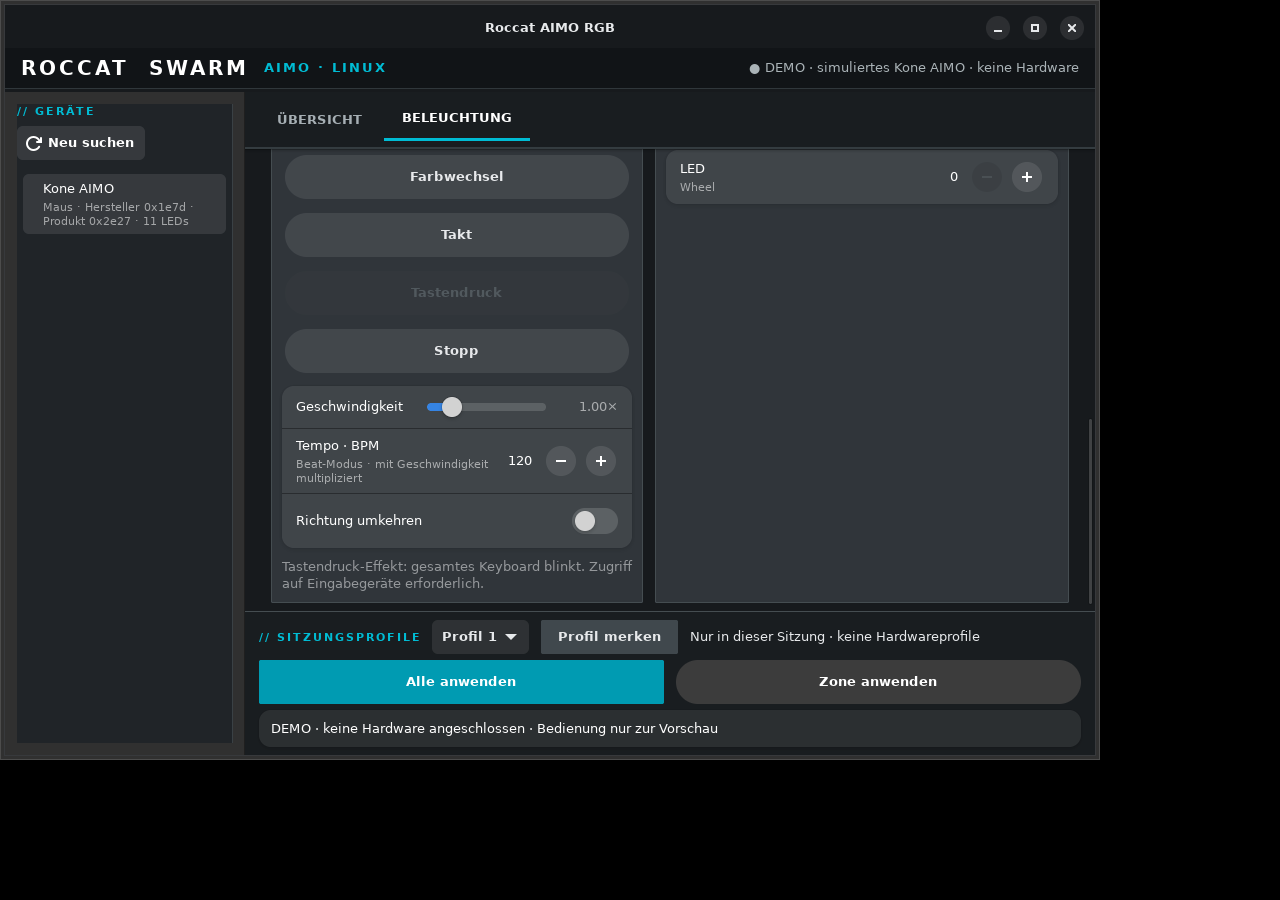
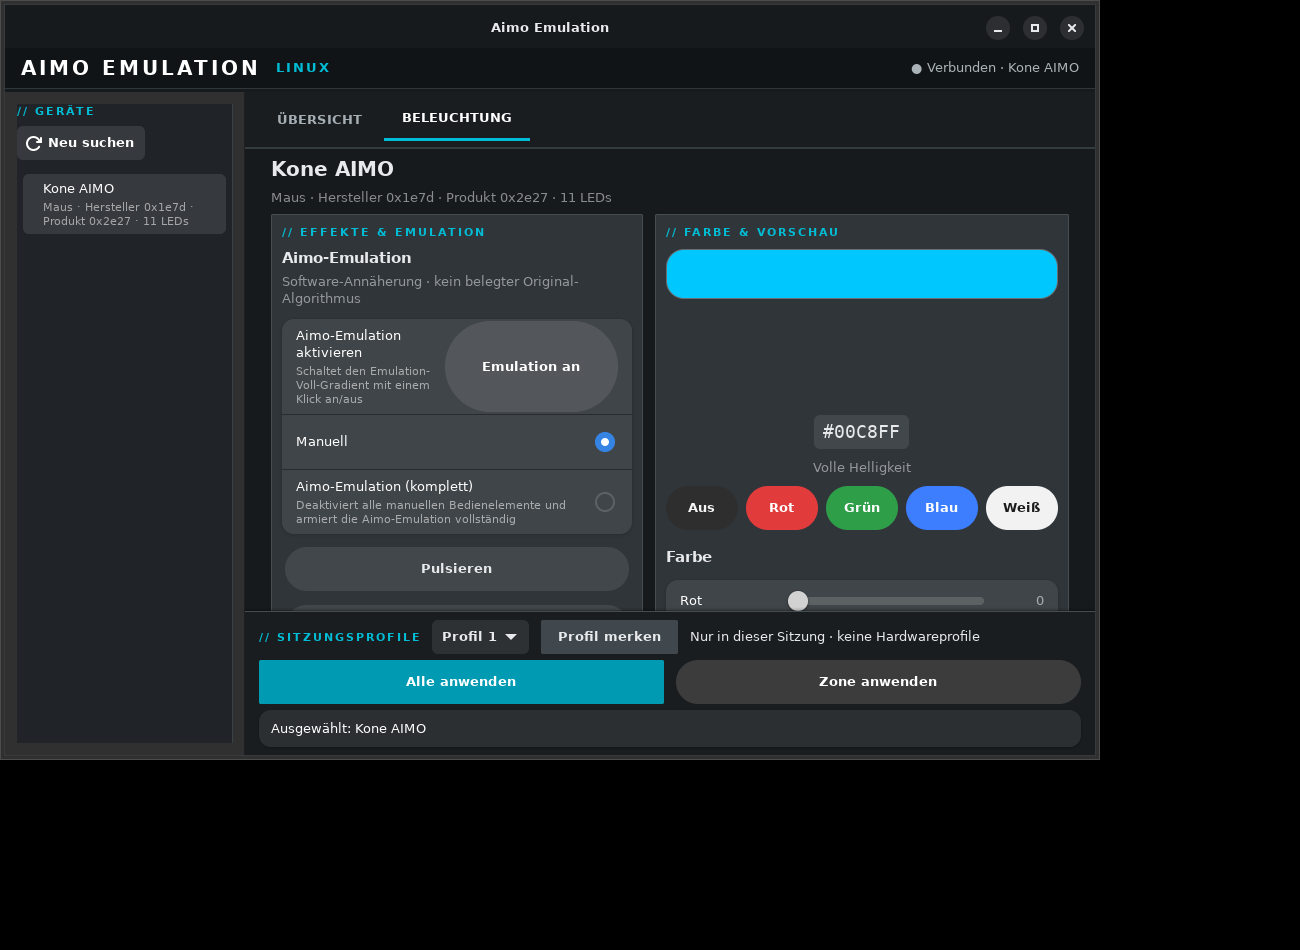
fix: strip SWARM/AIMO branding from visible UI strings (t_11f8949a)

Changed region(s): [[0.0, 0.0, 0.875, 0.8711], [0.375, 0.0, 0.4688, 0.0622]]

diff --git a/src/roccat_aimo_gui.py b/src/roccat_aimo_gui.py
@@ -188,7 +188,7 @@ class RoccatDeviceRow(Adw.ActionRow):
 
 class RoccatGui(Adw.ApplicationWindow):
     def __init__(self, app):
-        super().__init__(application=app, title="Roccat AIMO RGB")
+        super().__init__(application=app, title="Aimo Emulation")
         self.set_default_size(1100, 760)
         self.add_css_class("swarm-window")
         self._session_profiles: list[tuple[int, int, int, int, float, int, bool] | None] = [None] * 5
@@ -223,10 +223,10 @@ class RoccatGui(Adw.ApplicationWindow):
         window_toolbar.add_top_bar(self.header_bar)
         brand = Gtk.Box(spacing=18)
         brand.add_css_class("swarm-brand")
-        logo = Gtk.Label(label="ROCCAT  SWARM")
+        logo = Gtk.Label(label="AIMO EMULATION")
         logo.add_css_class("swarm-logo")
         brand.append(logo)
-        edition = Gtk.Label(label="AIMO · LINUX")
+        edition = Gtk.Label(label="LINUX")
         edition.add_css_class("swarm-accent")
         brand.append(edition)
         self.connection_label = Gtk.Label(label="● Offline · kein Gerät angeschlossen")
@@ -377,14 +377,14 @@ class RoccatGui(Adw.ApplicationWindow):
             aimo_mode.AIMO_SIGNATURE if aimo_mode is not None
             else ((255, 0, 0), (255, 80, 0), (230, 140, 0))
         )
-        aimo_group = Adw.PreferencesGroup(title="AIMO-Modus")
+        aimo_group = Adw.PreferencesGroup(title="Aimo-Emulation")
         aimo_group.set_description("Software-Annäherung · kein belegter Original-Algorithmus")
         self.aimo_btn = Gtk.Button()
         self.aimo_btn.add_css_class("pill")
         self.aimo_btn.set_hexpand(True)
-        aimo_btn_row = Adw.ActionRow(title="AIMO-Signatur aktivieren")
+        aimo_btn_row = Adw.ActionRow(title="Aimo-Emulation aktivieren")
         aimo_btn_row.set_activatable_widget(self.aimo_btn)
-        aimo_btn_row.set_subtitle("Schaltet den AIMO-Voll-Gradient mit einem Klick an/aus")
+        aimo_btn_row.set_subtitle("Schaltet den Emulation-Voll-Gradient mit einem Klick an/aus")
         aimo_btn_row.add_suffix(self.aimo_btn)
         aimo_group.add(aimo_btn_row)
         self.manual_radio = Gtk.CheckButton()
@@ -395,9 +395,9 @@ class RoccatGui(Adw.ApplicationWindow):
         aimo_group.add(manual_row)
         self.aimo_master = Gtk.CheckButton()
         self.aimo_master.set_group(self.manual_radio)
-        master_row = Adw.ActionRow(title="AIMO-Modus (komplett)")
+        master_row = Adw.ActionRow(title="Aimo-Emulation (komplett)")
         master_row.set_subtitle(
-            "Deaktiviert alle manuellen Bedienelemente und armiert den AIMO-Modus vollständig"
+            "Deaktiviert alle manuellen Bedienelemente und armiert die Aimo-Emulation vollständig"
         )
         master_row.add_suffix(self.aimo_master)
         master_row.set_activatable_widget(self.aimo_master)
@@ -405,7 +405,7 @@ class RoccatGui(Adw.ApplicationWindow):
         aimo_group.add(master_row)
         content.append(aimo_group)
 
-        self._aimo_btn_label = "AIMO an"
+        self._aimo_btn_label = "Emulation an"
         self.aimo_btn.connect("clicked", lambda _: self.toggle_aimo())
         self._rebuild_aimo_button()
 
@@ -474,7 +474,7 @@ class RoccatGui(Adw.ApplicationWindow):
         right = Gtk.Box(orientation=Gtk.Orientation.VERTICAL, spacing=10)
         right.add_css_class("swarm-panel")
         right.set_hexpand(True)
-        for heading, panel in (("// EFFEKTE & AIMO", left), ("// FARBE & VORSCHAU", right)):
+        for heading, panel in (("// EFFEKTE & EMULATION", left), ("// FARBE & VORSCHAU", right)):
             label = Gtk.Label(label=heading, xalign=0)
             label.add_css_class("swarm-eyebrow")
             panel.append(label)
@@ -542,7 +542,7 @@ class RoccatGui(Adw.ApplicationWindow):
         open_lighting.connect("clicked", lambda *_: self.lighting_tab.set_active(True))
         overview_card.append(open_lighting)
         overview.append(overview_card)
-        overview_note = Gtk.Label(label="AIMO · Farbe · Effekte   |   Unterstützt: Kone AIMO und Vulcan AIMO",
+        overview_note = Gtk.Label(label="Emulation · Farbe · Effekte   |   Unterstützt: Kone AIMO und Vulcan AIMO",
                                   xalign=0, wrap=True)
         overview_note.add_css_class("swarm-muted")
         overview.append(overview_note)
@@ -1152,7 +1152,7 @@ class RoccatGui(Adw.ApplicationWindow):
     def _rebuild_aimo_button(self) -> None:
         """Button-Beschriftung und visueller Zustand (aktiv = suggested-action)."""
         active = self._aimo_active
-        label = "AIMO aus" if active else "AIMO an"
+        label = "Emulation aus" if active else "Emulation an"
         self._aimo_btn_label = label
         if active:
             self.aimo_btn.add_css_class("suggested-action")
@@ -1160,7 +1160,7 @@ class RoccatGui(Adw.ApplicationWindow):
             self.aimo_btn.remove_css_class("suggested-action")
         self.aimo_btn.set_label(label)
         self.aimo_btn.set_tooltip_text(
-            "AIMO-Modus ausschalten" if active else "AIMO-Signatur-Look aktivieren"
+            "Aimo-Emulation ausschalten" if active else "Aimo-Emulation aktivieren"
         )
 
     def _stop_aimo(self, restore: bool = True) -> None:
@@ -1184,7 +1184,7 @@ class RoccatGui(Adw.ApplicationWindow):
             return
         if self._aimo_active:
             self._stop_aimo(restore=self.aimo_master.get_active())
-            self._set_status("AIMO-Modus aus")
+            self._set_status("Aimo-Emulation aus")
             return
         self.stop_effect(restore=False)
         self._aimo_active = True
@@ -1194,18 +1194,18 @@ class RoccatGui(Adw.ApplicationWindow):
         if not self._aimo_active:
             return
         self._aimo_source = GLib.timeout_add(84, self._aimo_tick)
-        self._set_status("AIMO-Modus aktiv")
+        self._set_status("Aimo-Emulation aktiv")
 
     def _on_aimo_master_changed(self) -> None:
         if self.aimo_master.get_active():
             if not self._aimo_active:
                 self.toggle_aimo()
             if self._aimo_active:
-                self._set_status("AIMO-Modus komplett scharf geschaltet")
+                self._set_status("Aimo-Emulation komplett scharf geschaltet")
         else:
             if self._aimo_active:
                 self._stop_aimo(restore=False)
-                self._set_status("AIMO-Modus aus")
+                self._set_status("Aimo-Emulation aus")
         self._set_controls()
 
     def _aimo_tick(self) -> bool:
@@ -1218,7 +1218,7 @@ class RoccatGui(Adw.ApplicationWindow):
         self.led_preview.queue_draw()
         self._aimo_frame += 1
         shown = "#%02X%02X%02X" % tuple(_clamp255(ch) for ch in colors[0])
-        self.preview_detail.set_label(f"AIMO-Modus · {shown}")
+        self.preview_detail.set_label(f"Aimo-Emulation · {shown}")
         if self._swatch_css is not None:
             self._swatch_css.load_from_string(".rgb-swatch { background-color: " + shown + "; }")
         return True
@@ -1236,7 +1236,7 @@ class RoccatGui(Adw.ApplicationWindow):
             )
         except Exception as exc:
             self._stop_aimo(restore=False)
-            self._set_status(f"AIMO error: {exc}")
+            self._set_status(f"Aimo-Emulation error: {exc}")
             return
         self._effect_proc = proc
         generation = self._effect_gen
@@ -1253,7 +1253,7 @@ class RoccatGui(Adw.ApplicationWindow):
             if not self._aimo_active:
                 return False
             self._stop_aimo(restore=False)
-            self._set_status(err or "AIMO-Modus beendet")
+            self._set_status(err or "Aimo-Emulation beendet")
             return False
 
         GLib.timeout_add(100, check_exit)

diff --git a/tests/test_gui.py b/tests/test_gui.py
@@ -346,12 +346,12 @@ exit 0
         self.assertTrue(window.manual_radio.get_active())
         # AIMO-Button ist sichtbar und klickbar.
         self.assertTrue(window.aimo_btn.get_sensitive())
-        self.assertEqual(window.aimo_btn.get_label(), "AIMO an")
+        self.assertEqual(window.aimo_btn.get_label(), "Emulation an")
         # Ein Klick armiert den AIMO-Signatur-Modus (Wire: CLI-Args korrekt).
         window.aimo_btn.emit("clicked")
         aimo_args = window._aimo_cli_args()
         self.assertTrue(window._aimo_active)
-        self.assertEqual(window.aimo_btn.get_label(), "AIMO aus")
+        self.assertEqual(window.aimo_btn.get_label(), "Emulation aus")
         self.assertEqual(aimo_args[0], "aimo-effect")
         self.assertEqual(aimo_args[1], "wave")
         self.assertIn("--theme", aimo_args)
@@ -400,7 +400,7 @@ exit 0
         self.assertFalse(window.aimo_master.get_active())
         self.assertTrue(window.aimo_btn.get_sensitive())
         self.assertTrue(all(widget.get_sensitive() for widget in window._manual_widgets))
-        self.assertIn("AIMO error", window.status_label.get_label())
+        self.assertIn("Aimo-Emulation error", window.status_label.get_label())
 
     def test_master_starts_signature_without_pressing_single_button(self):
         with tempfile.TemporaryDirectory() as directory:
